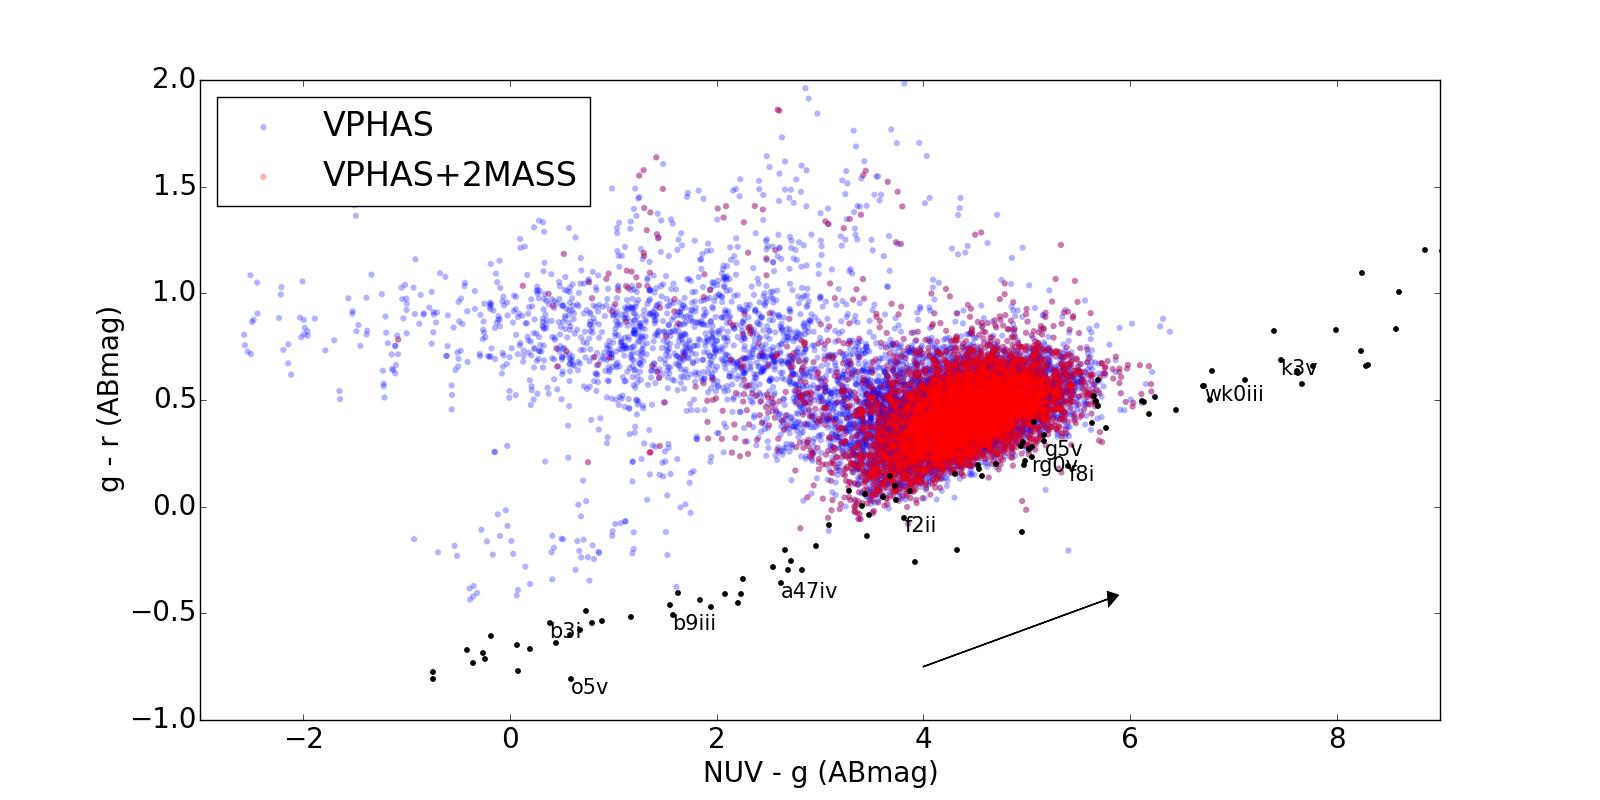
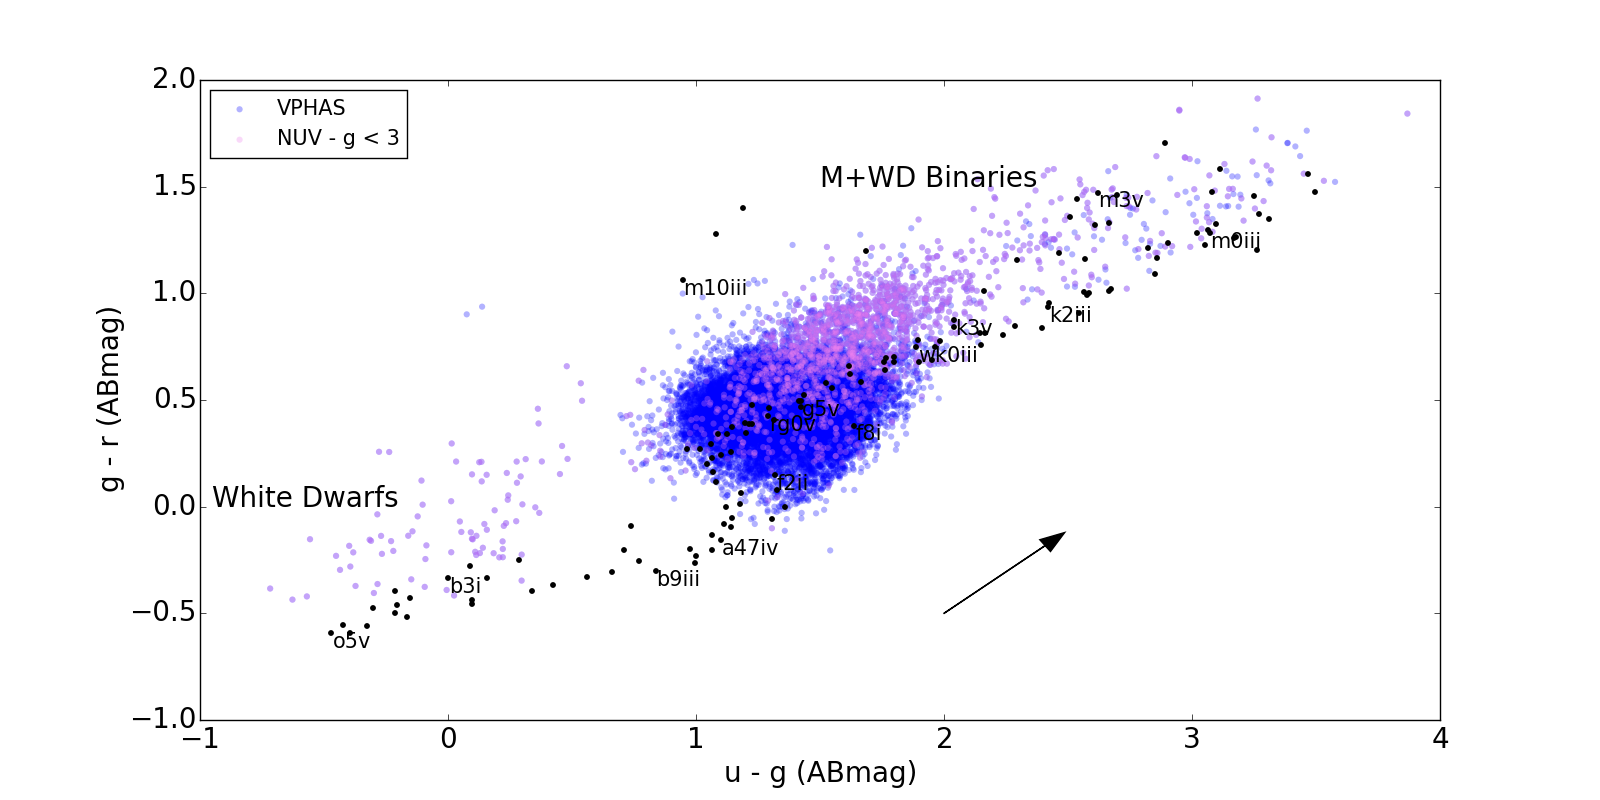
new plots

diff --git a/pipeline/ccplot.py b/pipeline/ccplot.py
@@ -5,19 +5,17 @@ import matplotlib
 matplotlib.rcParams['figure.figsize'] = 16, 8
 matplotlib.rcParams['font.size'] = 20
 
-nuvjvsjk = 0
-nuvbvsbv = 1
+nuvjvsjk = 1
+nuvbvsbv = 0
 jhvshk = 0
 grvsnuvg = 0
 
 
 #star = Table.read('newfield_gal_2mass_t2_jlim_13.5_3arcsec.txt', format='ascii')
-#star = Table.read('newfield_2mass_t2_jlim_13.5_3arcsec.txt', format='ascii')
 
+star = Table.read('newfield_gal_ipac_2mass_matches_3arcsec_j_lt13.5_tests.txt',format='ascii')
 newt = Table.read('galex0data_2mass_t2.txt', format='ascii')
-pickles = Table.read('picklemags_laphare.txt', format='ascii')
-
-#star['nuv'] = star['nuv'] - 0.5
+pickles = Table.read('picklemags_laphare_test.txt', format='ascii')
 
 # Set range
 scut = np.where((star['gb_sex'] > -10) & (star['gb_sex'] < -5))
@@ -89,6 +87,12 @@ if grvsnuvg == 1:
 f, ((ax1, ax2), (ax3, ax4)) = plt.subplots(2, 2, sharex='col', sharey='row')
 plt.rc('legend', **{'fontsize': 15})
 
+# SExtractor
+a1 = ax1.scatter(star[x1[2]][scut]-star[x2[2]][scut], star[y1[2]][scut]-star[y2[2]][scut], edgecolor='none', alpha=0.3)
+b1 = ax2.scatter(star[x1[2]][scut2]-star[x2[2]][scut2], star[y1[2]][scut2]-star[y2[2]][scut2], edgecolor='none', alpha=0.3)
+c1 = ax3.scatter(star[x1[2]][scut3]-star[x2[2]][scut3], star[y1[2]][scut3]-star[y2[2]][scut3], edgecolor='none', alpha=0.3)
+d1 = ax4.scatter(star[x1[2]][scut4]-star[x2[2]][scut4], star[y1[2]][scut4]-star[y2[2]][scut4], edgecolor='none', alpha=0.3)
+
 
 # GALEX data
 a2 = ax1.scatter(newt[x1[0]][ncut]-newt[x2[0]][ncut], newt[y1[0]][ncut]-newt[y2[0]][ncut], facecolor='red', edgecolor='none', s=30, alpha=0.3)
@@ -96,33 +100,27 @@ b2 = ax2.scatter(newt[x1[0]][ncut2]-newt[x2[0]][ncut2], newt[y1[0]][ncut2]-newt[
 c2 = ax3.scatter(newt[x1[0]][ncut3]-newt[x2[0]][ncut3], newt[y1[0]][ncut3]-newt[y2[0]][ncut3], facecolor='red', edgecolor='none', s=30, alpha=0.3)
 d2 = ax4.scatter(newt[x1[0]][ncut4]-newt[x2[0]][ncut4], newt[y1[0]][ncut4]-newt[y2[0]][ncut4], facecolor='red', edgecolor='none', s=30, alpha=0.3)
 
-
-# SExtractor
-a1 = ax1.scatter(star[x1[2]][scut]-star[x2[2]][scut], star[y1[2]][scut]-star[y2[2]][scut], edgecolor='none', alpha=0.3)
-b1 = ax2.scatter(star[x1[2]][scut2]-star[x2[2]][scut2], star[y1[2]][scut2]-star[y2[2]][scut2], edgecolor='none', alpha=0.3)
-c1 = ax3.scatter(star[x1[2]][scut3]-star[x2[2]][scut3], star[y1[2]][scut3]-star[y2[2]][scut3], edgecolor='none', alpha=0.3)
-d1 = ax4.scatter(star[x1[2]][scut4]-star[x2[2]][scut4], star[y1[2]][scut4]-star[y2[2]][scut4], edgecolor='none', alpha=0.3)
-
 #Pickles
-
 a3 = ax1.scatter(pickles[x1[1]]-pickles[x2[1]], pickles[y1[1]]-pickles[y2[1]], c='black', s=10)
 b3 = ax2.scatter(pickles[x1[1]]-pickles[x2[1]], pickles[y1[1]]-pickles[y2[1]], c='black', s=10)
 c3 = ax3.scatter(pickles[x1[1]]-pickles[x2[1]], pickles[y1[1]]-pickles[y2[1]], c='black', s=10)
 d3 = ax4.scatter(pickles[x1[1]]-pickles[x2[1]], pickles[y1[1]]-pickles[y2[1]], c='black', s=10)
 
 
-for j in range(len(pickles)):
-    ax1.annotate(pickles['name'][j], xy=(pickles[x1[1]][j]-pickles[x2[1]][j], pickles[y1[1]][j]-pickles[y2[1]][j]), size=12)
-    ax2.annotate(pickles['name'][j], xy=(pickles[x1[1]][j]-pickles[x2[1]][j], pickles[y1[1]][j]-pickles[y2[1]][j]), size=12)
-    ax3.annotate(pickles['name'][j], xy=(pickles[x1[1]][j]-pickles[x2[1]][j], pickles[y1[1]][j]-pickles[y2[1]][j]), size=12)
-    ax4.annotate(pickles['name'][j], xy=(pickles[x1[1]][j]-pickles[x2[1]][j], pickles[y1[1]][j]-pickles[y2[1]][j]), size=12)
+for j in range(0, len(pickles), 10):
+    ax1.annotate(pickles['name'][j], xy=((pickles[x1[1]][j]-pickles[x2[1]][j])+0.01, (pickles[y1[1]][j]-pickles[y2[1]][j])+0.07), size=15)
+    ax2.annotate(pickles['name'][j], xy=((pickles[x1[1]][j]-pickles[x2[1]][j])+0.01, (pickles[y1[1]][j]-pickles[y2[1]][j])+0.07), size=15)
+    ax3.annotate(pickles['name'][j], xy=((pickles[x1[1]][j]-pickles[x2[1]][j])+0.01, (pickles[y1[1]][j]-pickles[y2[1]][j])+0.07), size=15)
+    ax4.annotate(pickles['name'][j], xy=((pickles[x1[1]][j]-pickles[x2[1]][j])+0.01, (pickles[y1[1]][j]-pickles[y2[1]][j])+0.07), size=15)
+
+
 
 
 # Add Extinction vector
-ax1.arrow(extx, exty, extdx, extdy, head_length=1.,head_width=0.07,color='black')
-ax2.arrow(extx, exty, extdx, extdy, head_length=1.,head_width=0.07,color='black')
-ax3.arrow(extx, exty, extdx, extdy, head_length=1.,head_width=0.07,color='black')
-ax4.arrow(extx, exty, extdx, extdy, head_length=1.,head_width=0.07,color='black')
+ax1.arrow(extx, exty, extdx, extdy, head_length=0.1,head_width=0.07,color='black')
+ax2.arrow(extx, exty, extdx, extdy, head_length=0.1,head_width=0.07,color='black')
+ax3.arrow(extx, exty, extdx, extdy, head_length=0.1,head_width=0.07,color='black')
+ax4.arrow(extx, exty, extdx, extdy, head_length=0.1,head_width=0.07,color='black')
 
 # Set all labels
 ax1.set_title('3", J < 13.5, -10 < gb < -5')
@@ -133,13 +131,13 @@ ax4.set_title('5 < gb < 10')
 
 if nuvjvsjk == 1:
     ax1.set_xlim((-0.25, 2.5))
-    ax1.set_ylim((0, 14))
+    ax1.set_ylim((-2, 16))
     ax2.set_xlim((-0.25, 2.5))
-    ax2.set_ylim((0, 14))
+    ax2.set_ylim((-2, 16))
     ax3.set_xlim((-0.25, 2.5))
-    ax3.set_ylim((0, 14))
+    ax3.set_ylim((-2, 16))
     ax4.set_xlim((-0.25, 2.5))
-    ax4.set_ylim((0, 14))
+    ax4.set_ylim((-2, 16))
     ax1.set_ylabel('NUV - J')
     ax3.set_xlabel('J - K')
     ax3.set_ylabel('NUV - J')

diff --git a/pipeline/misc.py b/pipeline/misc.py
@@ -598,7 +598,7 @@ ib  = ['i','i','i',0.6418]
 
 
 plt.scatter(sexv['g_AB']-sexv['i_AB'],sexv['nuv']-sexv['g_AB'],edgecolor='none',facecolor='blue',alpha=0.3,label='VPHAS')
-plt.scatter(starv[cut]['g_AB']-starv[cut]['i_AB'],starv[cut]['nuv']-starv[cut]['g_AB'],edgecolor='none',facecolor='red',label='VPHAS + 2MASS')
+plt.scatter(starv['g_AB']-starv['i_AB'],starv['nuv']-starv['g_AB'],edgecolor='none',facecolor='red',label='VPHAS + 2MASS',alpha=0.3)
 plt.xlim((-2,3))
 plt.ylim((-2,8))
 plt.ylabel('NUV - g (ABmag)')
@@ -607,16 +607,19 @@ plt.legend(loc=3,scatterpoints=1)
 plt.gca().invert_yaxis()
 plt.scatter(pickles['g']-pickles['i'], pickles['nuv']-pickles['g'], c='black', s=10)
 
-plt.arrow(-1.5, 4,g[3]-ib[3], nuv[3]-g[3], head_length=1.,head_width=0.07,color='black')
+plt.arrow(-1.5, 4,g[3]-ib[3], nuv[3]-g[3], head_length=0.1,head_width=0.07,color='black')
 
-for j in range(len(pickles)):
-        plt.annotate(pickles['name'][j], xy=(pickles['g'][j]-pickles['i'][j], pickles['nuv'][j]-pickles['g'][j]), size=12)
+for j in range(0,len(pickles),10):
+        plt.annotate(pickles['name'][j], xy=((pickles['g'][j]-pickles['i'][j])+0.01, (pickles['nuv'][j]-pickles['g'][j]) - 0.07), size=15)
+
 
 plt.show()
 
 
+#######################################################
+# g - r vs NUV - g
+#######################################################
 
-cut = np.where(starv['j']-starv['k'] > 0.6)
 plt.scatter(sexv['nuv']-sexv['g_AB'],sexv['g_AB']-sexv['r_AB'],edgecolor='none',alpha=0.3,label='VPHAS')
 plt.scatter(starv['nuv']-starv['g_AB'],starv['g_AB']-starv['r_AB'],edgecolor='none',facecolor='red',alpha=0.3,label='VPHAS+2MASS')
 plt.xlabel('NUV - g (ABmag)')
@@ -625,22 +628,64 @@ plt.xlim((-3,9))
 plt.ylim((-1,2))
 plt.scatter(pickles['nuv']-pickles['g'], pickles['g']-pickles['r'], c='black', s=10)
 
-plt.arrow(4, -0.75,nuv[3]-g[3], g[3]-r[3], head_length=1.,head_width=0.07,color='black')
+plt.arrow(4, -0.75,nuv[3]-g[3], g[3]-r[3], head_length=0.1,head_width=0.07,color='black')
 
-plt.legend(scatterpoints=1,loc=4)
+plt.legend(scatterpoints=1,loc=2)
 
+for j in range(0,len(pickles),10):
+        plt.annotate(pickles['name'][j], xy=((pickles['nuv'][j]-pickles['g'][j])+0.01, (pickles['g'][j]-pickles['r'][j]) - 0.07), size=15)
+plt.show()
 
-for j in range(len(pickles)):
-        plt.annotate(pickles['name'][j], xy=(pickles['nuv'][j]-pickles['g'][j], pickles['g'][j]-pickles['r'][j]), size=12)
+#######################################################
+# NUV - g vs g - i
+#######################################################
+plt.scatter(sexv['g_AB']-sexv['i_AB'],sexv['nuv']-sexv['g_AB'],edgecolor='none',facecolor='blue',alpha=0.3,label='VPHAS')
+plt.scatter(starv['g_AB']-starv['i_AB'],starv['nuv']-starv['g_AB'],edgecolor='none',facecolor='red',label='VPHAS + 2MASS',alpha=0.3)
+plt.xlim((-2,3))
+plt.ylim((-2,8))
+plt.ylabel('NUV - g (ABmag)')
+plt.xlabel('g - i (ABmag)')
+plt.legend(loc=3,scatterpoints=1)
+plt.gca().invert_yaxis()
+plt.scatter(pickles['g']-pickles['i'], pickles['nuv']-pickles['g'], c='black', s=10)
 
+plt.arrow(-1.5, 4,g[3]-ib[3], nuv[3]-g[3], head_length=0.1,head_width=0.07,color='black')
+
+for j in range(0,len(pickles),10):
+        plt.annotate(pickles['name'][j], xy=((pickles['g'][j]-pickles['i'][j])+0.01, (pickles['nuv'][j]-pickles['g'][j]) - 0.07), size=15)
 plt.show()
 
 
+#######################################################
+# g - r vs u - g
+#######################################################
 
+plt.scatter(sexv['u_AB']-sexv['g_AB'],sexv['g_AB']-sexv['r_AB'],edgecolor='none',alpha=0.3,label='VPHAS')
+#plt.scatter(starv['u_AB']-starv['g_AB'],starv['g_AB']-starv['r_AB'],edgecolor='none',facecolor='red',alpha=0.3,label='VPHAS+2MASS')
+
+cut = np.where(sexv['nuv'] - sexv['g_AB'] < 3)
+plt.scatter(sexv[cut]['u_AB']-sexv[cut]['g_AB'],sexv[cut]['g_AB']-sexv[cut]['r_AB'],edgecolor='none',facecolor='red',alpha=0.3,label='NUV - g < 3')
+
+plt.xlabel('u - g (ABmag)')
+plt.ylabel('g - r (ABmag)')
+plt.xlim((-1,4))
+plt.ylim((-1,2))
+plt.scatter(pickles['u']-pickles['g'], pickles['g']-pickles['r'], c='black', s=10)
+
+plt.arrow(2, -0.5,u[3]-g[3], g[3]-r[3], head_length=0.1,head_width=0.07,color='black')
+
+plt.legend(scatterpoints=1,loc=2)
+
+for j in range(0,len(pickles),10):
+        plt.annotate(pickles['name'][j], xy=((pickles['u'][j]-pickles['g'][j])+0.01, (pickles['g'][j]-pickles['r'][j]) - 0.07), size=15)
+plt.show()
+
+
+#######################################################
+# NUV - J vs J - K
+#######################################################
 plt.scatter(starv['j']-starv['k'],starv['nuv']-starv['j'],edgecolor='none',alpha=0.3,label='2MASS+VPHAS')
 plt.scatter(starv['j'][a]-starv['k'][a],starv['nuv'][a]-starv['j'][a],edgecolor='none',facecolor='red',label='NUV - g < 3')
-
-
 plt.xlim((-0.25, 2.5))
 plt.ylim((0, 14))
 plt.ylabel('NUV - J')
@@ -648,10 +693,7 @@ plt.xlabel('J - K')
 plt.legend(scatterpoints=1)
 plt.scatter(pickles['j']-pickles['k'], pickles['nuv']-pickles['j'], c='black', s=10)
 plt.axhline(y=4,color='black')
-
 plt.arrow(-0.1, 8, 0.2876-0.1170, 2.9720-0.2876, head_length=1.,head_width=0.07,color='black')
-
-
 plt.show()
 
 # GALEX, Pickles, SExtractor order
@@ -677,3 +719,5 @@ if nuvjvsjk == 1:
     #exty = 3.5
     extdx = x1[3] - x2[3]
     extdy = y1[3] - y2[3]
+
+

diff --git a/pipeline/pickleconv.py b/pipeline/pickleconv.py
@@ -107,9 +107,9 @@ ifilt = ifilt[i_filtind]
 nuvfiltsum = np.sum(nuvfilt['col2']/nuvfilt['col1'])
 bfiltsum = np.sum(bfilt['col2']/bfilt['col1'])
 vfiltsum = np.sum(vfilt['col2']/vfilt['col1'])
-jfiltsum = np.sum(jfilt['col2']/jfilt['col1'])
-hfiltsum = np.sum(hfilt['col2']/hfilt['col1'])
-kfiltsum = np.sum(kfilt['col2']/kfilt['col1'])
+jfiltsum = np.sum(jfilt['col2'])#/jfilt['col1'])
+hfiltsum = np.sum(hfilt['col2'])#/hfilt['col1'])
+kfiltsum = np.sum(kfilt['col2'])#/kfilt['col1'])
 ufiltsum = np.sum(ufilt['col2']/ufilt['col1'])
 gfiltsum = np.sum(gfilt['col2']/gfilt['col1'])
 rfiltsum = np.sum(rfilt['col2']/rfilt['col1'])
@@ -126,9 +126,12 @@ for i in picklefiles:
     nuv.append(np.sum(table['col2'][nuv_starind] * nuvfilt['col2']*nuvfilt['col1']))
     b.append(np.sum(table['col2'][b_starind] * bfilt['col2']*bfilt['col1']))
     v.append(np.sum(table['col2'][v_starind] * vfilt['col2']*vfilt['col1']))
-    j.append(np.sum(table['col2'][j_starind] * jfilt['col2']*jfilt['col1']))
-    h.append(np.sum(table['col2'][h_starind] * hfilt['col2']*hfilt['col1']))
-    k.append(np.sum(table['col2'][k_starind] * kfilt['col2']*kfilt['col1']))
+    #j.append(np.sum(table['col2'][j_starind] * jfilt['col2']*jfilt['col1']))
+    #h.append(np.sum(table['col2'][h_starind] * hfilt['col2']*hfilt['col1']))
+    #k.append(np.sum(table['col2'][k_starind] * kfilt['col2']*kfilt['col1']))
+    j.append(np.sum(table['col2'][j_starind] * jfilt['col2']))
+    h.append(np.sum(table['col2'][h_starind] * hfilt['col2']))
+    k.append(np.sum(table['col2'][k_starind] * kfilt['col2']))
     u.append(np.sum(table['col2'][u_starind] * ufilt['col2']*ufilt['col1']))
     g.append(np.sum(table['col2'][g_starind] * gfilt['col2']*gfilt['col1']))
     r.append(np.sum(table['col2'][r_starind] * rfilt['col2']*rfilt['col1']))
@@ -204,9 +207,12 @@ nuv = -2.5*np.log10(pbands['nuv']) + 8.9
 b = -2.5*np.log10(pbands['b']) + 8.9
 v = -2.5*np.log10(pbands['v']) + 8.9
 
-j = -2.5*np.log10(pbands['j']) + 8.9
-h = -2.5*np.log10(pbands['h']) + 8.9
-k = -2.5*np.log10(pbands['k']) + 8.9
+j = -2.5*np.log10(pbands['j'] * (jlamb)**2) + 7.96
+h = -2.5*np.log10(pbands['h'] * (hlamb)**2) + 7.526
+k = -2.5*np.log10(pbands['k'] * (klamb)**2) + 7.060
+#j = -2.5*np.log10(pbands['j']) + 7.96
+#h = -2.5*np.log10(pbands['h']) + 7.526
+#k = -2.5*np.log10(pbands['k']) + 7.060
 
 u = -2.5*np.log10(pbands['u']) + 8.9
 g = -2.5*np.log10(pbands['g']) + 8.9
